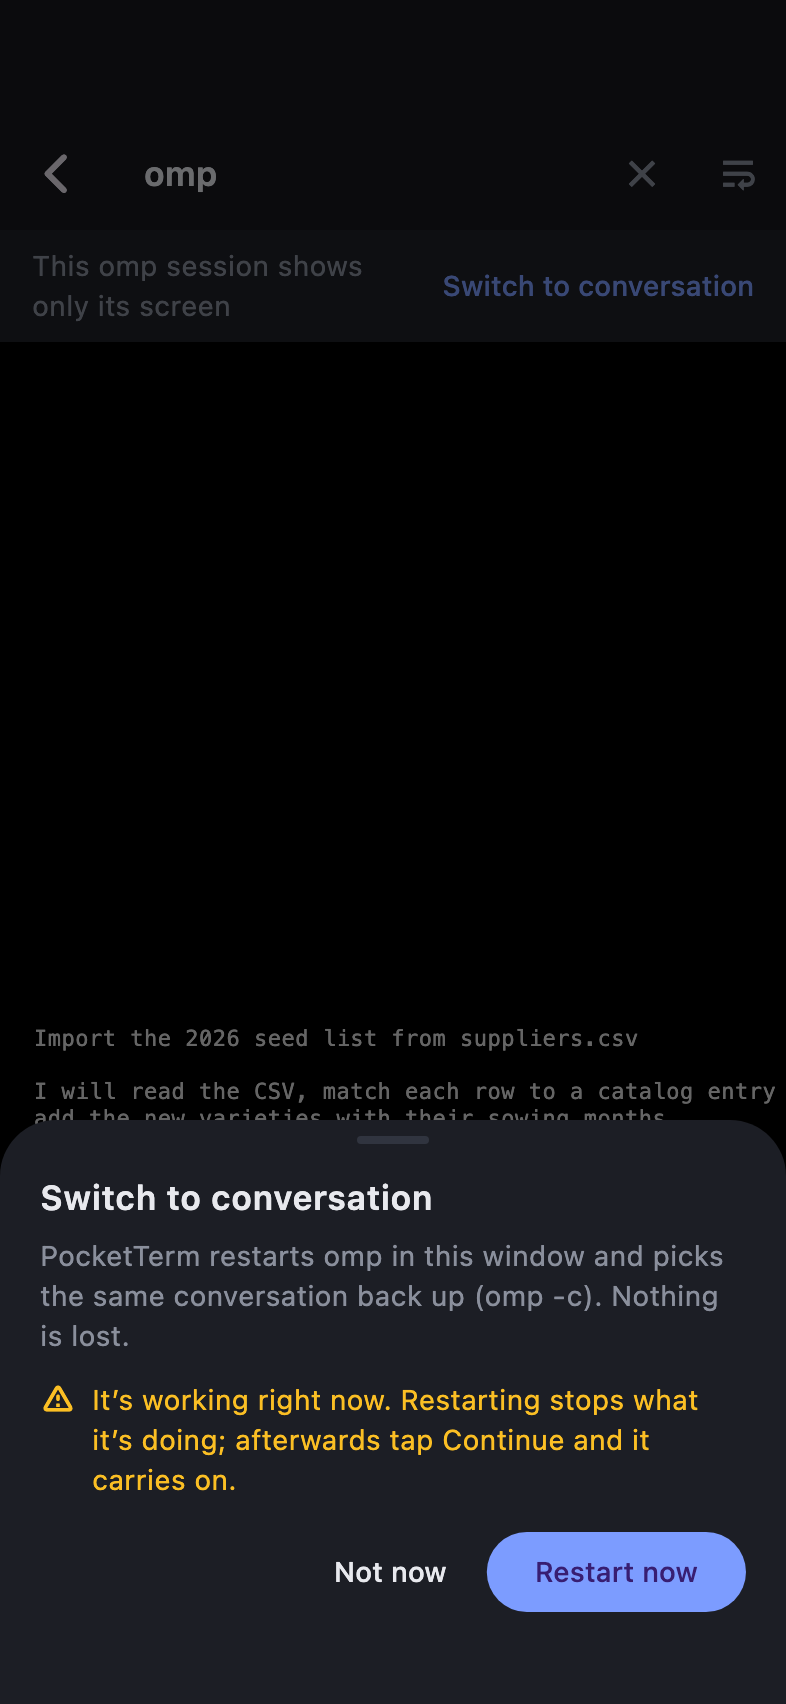
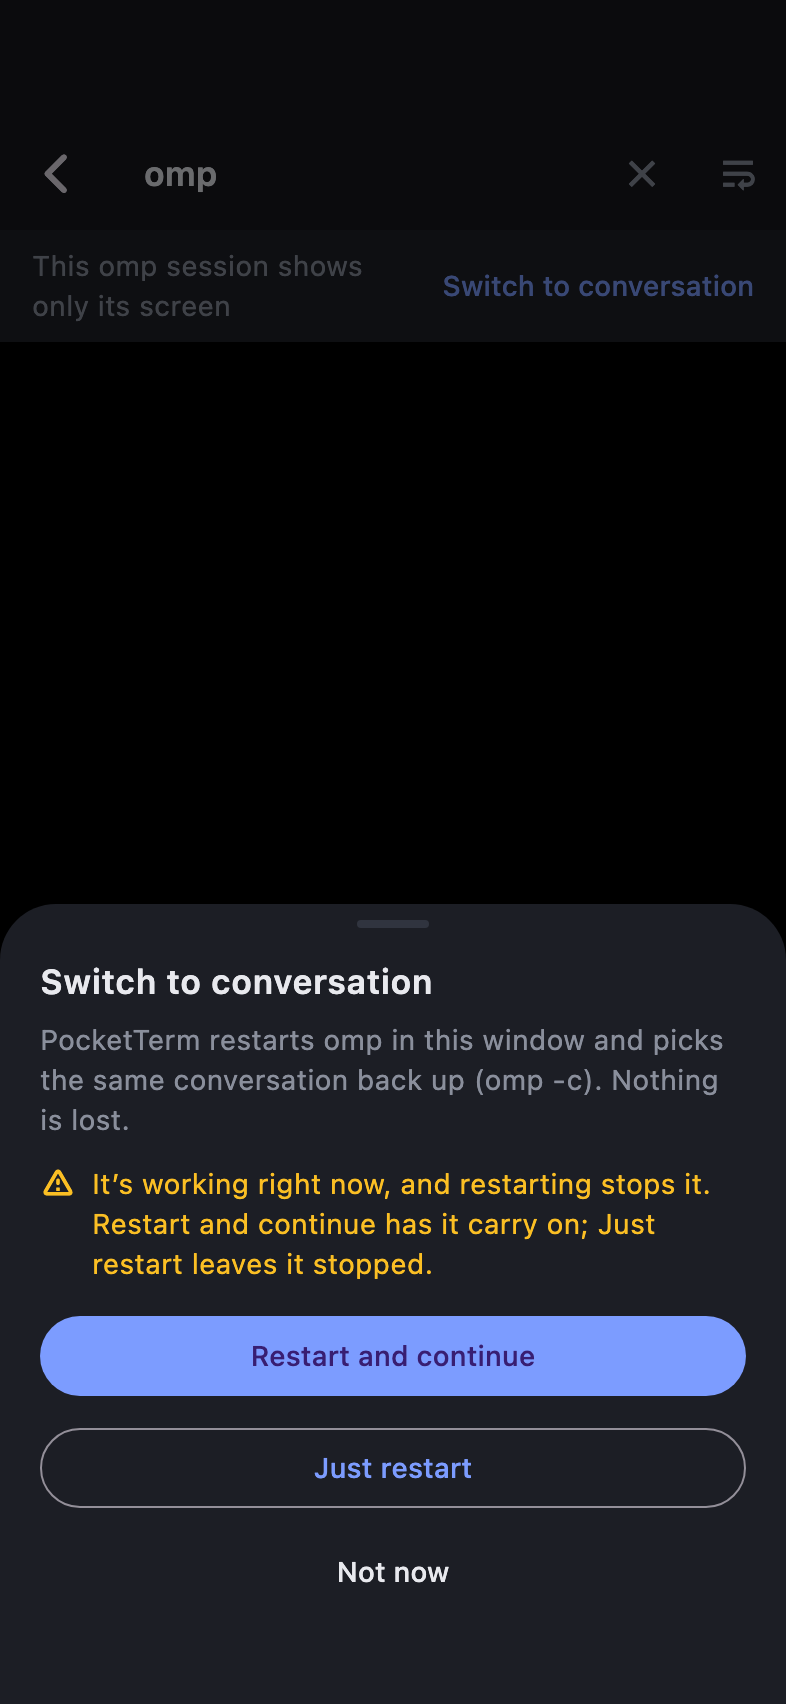
Phone: restart and continue in one tap

Changed region(s): [[0.0, 0.5288, 1.0, 0.9642], [0.4275, 0.902, 0.5802, 0.9331]]

diff --git a/apps/pocketterm-mobile/lib/switch_view.dart b/apps/pocketterm-mobile/lib/switch_view.dart
@@ -28,6 +28,10 @@ const switchWait = Duration(seconds: 25);
 
 enum _Phase { idle, switching, failed }
 
+/// What the session page does once a switched agent reports: an omp that was at work when its restart stopped it
+/// is prompted `continue` right away ([send]), or offers a Continue chip ([offer]).
+enum AfterSwitch { nothing, offer, send }
+
 /// The top of a screen-only agent window's page ([canSwitch]): a banner offering the switch to the conversation
 /// view, then "Switching…" until the agent reports as a live session in this window, whose page then replaces this
 /// one; or, after [switchWait], that it didn't come back.
@@ -47,8 +51,8 @@ class _SwitchBannerState extends State<SwitchBanner> {
   /// The agent being switched: its window's program is a shell for a moment while omp restarts.
   late Agent _agent;
 
-  /// It was at work when the switch stopped it: its session page offers Continue.
-  bool _wasBusy = false;
+  /// What its session page does about a run the switch stopped.
+  AfterSwitch _after = AfterSwitch.nothing;
   Timer? _timeout;
 
   @override
@@ -64,15 +68,17 @@ class _SwitchBannerState extends State<SwitchBanner> {
   }
 
   Future<void> _offer(Agent agent) async {
-    final busy = await showAppSheet<bool>(
+    final after = await showAppSheet<AfterSwitch>(
       context,
+      // Its height is its content's: the choices at work take more than the default share of the screen.
+      isScrollControlled: true,
       builder: (_) => SwitchSheet(remote: remote, window: widget.window, agent: agent),
     );
-    if (busy == null || !mounted) return;
+    if (after == null || !mounted) return;
     setState(() {
       _phase = _Phase.switching;
       _agent = agent;
-      _wasBusy = busy;
+      _after = after;
     });
     _stop();
     remote.addListener(_check);
@@ -98,7 +104,12 @@ class _SwitchBannerState extends State<SwitchBanner> {
     Coach.maybeOf(context)?.switched(widget.window);
     final route = ModalRoute.of(context);
     final page = MaterialPageRoute<void>(
-      builder: (_) => SessionPage(remote: remote, sessionKey: s.key, offerContinue: _wasBusy),
+      builder: (_) => SessionPage(
+        remote: remote,
+        sessionKey: s.key,
+        offerContinue: _after == AfterSwitch.offer,
+        autoContinue: _after == AfterSwitch.send,
+      ),
     );
     final nav = Navigator.of(context);
     if (route == null || route.isCurrent) {
@@ -165,8 +176,8 @@ class _SwitchBannerState extends State<SwitchBanner> {
 }
 
 /// What switching [agent] in [window] does, asked before it's done. omp restarts, so the sheet first asks the
-/// computer whether it's at work and warns that restarting stops it. Pops whether it was at work once confirmed,
-/// null if not.
+/// computer whether it's at work, warns that restarting stops it and offers to have it carry on. Pops what the
+/// session page does about the stopped run once confirmed, null if not.
 class SwitchSheet extends StatefulWidget {
   const SwitchSheet({required this.remote, required this.window, required this.agent, super.key});
   final TerminalRemote remote;
@@ -232,8 +243,8 @@ class _SwitchSheetState extends State<SwitchSheet> {
                     SizedBox(width: 8),
                     Expanded(
                       child: Text(
-                        'It’s working right now. Restarting stops what it’s doing; afterwards tap Continue and it '
-                        'carries on.',
+                        'It’s working right now, and restarting stops it. Restart and continue has it carry on; '
+                        'Just restart leaves it stopped.',
                         style: TextStyle(fontSize: 14, color: C.warn, height: 1.4),
                       ),
                     ),
@@ -247,22 +258,17 @@ class _SwitchSheetState extends State<SwitchSheet> {
                 height: 48,
                 child: Center(child: SizedBox.square(dimension: 18, child: CircularProgressIndicator(strokeWidth: 2))),
               )
+            else if (busy)
+              ..._busyChoices()
             else
               Row(
                 mainAxisAlignment: MainAxisAlignment.end,
                 children: [
-                  TextButton(
-                    key: const ValueKey('switch-cancel'),
-                    onPressed: () => Navigator.of(context).pop(),
-                    child: const Text('Not now', style: TextStyle(color: C.text)),
-                  ),
+                  _notNow(),
                   const SizedBox(width: 8),
                   FilledButton(
                     key: const ValueKey('switch-confirm'),
-                    onPressed: () {
-                      unawaited(HapticFeedback.lightImpact());
-                      Navigator.of(context).pop(busy);
-                    },
+                    onPressed: () => _pick(AfterSwitch.nothing),
                     child: Text(omp ? 'Restart now' : 'Switch'),
                   ),
                 ],
@@ -272,4 +278,32 @@ class _SwitchSheetState extends State<SwitchSheet> {
       ),
     );
   }
+
+  void _pick(AfterSwitch after) {
+    unawaited(HapticFeedback.lightImpact());
+    Navigator.of(context).pop(after);
+  }
+
+  Widget _notNow() => TextButton(
+    key: const ValueKey('switch-cancel'),
+    onPressed: () => Navigator.of(context).pop(),
+    child: const Text('Not now', style: TextStyle(color: C.text)),
+  );
+
+  /// omp at work: restart and have it carry on, or just restart, stacked so both read in full.
+  List<Widget> _busyChoices() => [
+    FilledButton(
+      key: const ValueKey('switch-continue'),
+      onPressed: () => _pick(AfterSwitch.send),
+      child: const Text('Restart and continue'),
+    ),
+    const SizedBox(height: 8),
+    OutlinedButton(
+      key: const ValueKey('switch-confirm'),
+      onPressed: () => _pick(AfterSwitch.offer),
+      child: const Text('Just restart'),
+    ),
+    const SizedBox(height: 4),
+    _notNow(),
+  ];
 }

diff --git a/apps/pocketterm-mobile/test/terminal_list_test.dart b/apps/pocketterm-mobile/test/terminal_list_test.dart
@@ -694,37 +694,44 @@ void main() {
       remote.flush();
     });
 
-    testWidgets('omp: the sheet asks whether it works, warns that it does, then it switches and its session opens', (
-      tester,
-    ) async {
+    /// The omp in [window] is at work: the sheet asks, warns and offers both restarts.
+    Future<void> busySheet(WidgetTester tester, String window) async {
       screensOnly();
-      await openScreen(tester, 'kitty-1/7');
+      await openScreen(tester, window);
       await openSheet(tester);
       expect(find.textContaining('picks the same conversation back up'), findsOneWidget);
       // Asking the computer first: no buttons yet.
       expect(find.byKey(const ValueKey('switch-probing')), findsOneWidget);
-      expect(find.text('Restart now'), findsNothing);
+      expect(find.text('Restart and continue'), findsNothing);
       final probe = runs('probe').single;
-      expect(probe, containsPair('window', 'kitty-1/7'));
+      expect(probe, containsPair('window', window));
       remote.handle('ran', {'id': probe['id'], 'busy': true});
       await tester.pump();
       expect(find.byKey(const ValueKey('switch-busy')), findsOneWidget);
-      expect(find.textContaining('afterwards tap Continue'), findsOneWidget);
+      expect(find.text('Restart and continue'), findsOneWidget);
+      expect(find.text('Just restart'), findsOneWidget);
+      expect(find.text('Not now'), findsOneWidget);
+      expect(find.text('Restart now'), findsNothing);
+    }
 
-      await tester.tap(find.text('Restart now'));
+    /// Taps [choice] in the sheet; the switch goes and omp reports from [window] (at work if [busy]), whose session
+    /// page opens.
+    Future<void> restart(WidgetTester tester, String window, String choice, {bool busy = false}) async {
+      await tester.tap(find.text(choice));
       await tester.pump();
       await tester.pump(const Duration(milliseconds: 400));
       final switched = runs('switch').single;
-      expect(switched, allOf(containsPair('window', 'kitty-1/7'), containsPair('agent', 'omp')));
+      expect(switched, allOf(containsPair('window', window), containsPair('agent', 'omp')));
       expect(find.text('Switching…'), findsOneWidget);
       remote.handle('ran', {'id': switched['id']});
       await tester.pump();
       expect(find.text('Switching…'), findsOneWidget, reason: 'until omp reports');
+      expect(runs('prompt'), isEmpty);
 
       // omp reports from the window: its session's page takes the screen's place.
       screensOnly(
         sessions: [
-          {'key': 'kitty-1/7', 'id': 's7', 'agent': 'omp', 'window': 'kitty-1/7', 'title': 'Back', 'cwd': _a},
+          {'key': window, 'id': 's7', 'agent': 'omp', 'window': window, 'title': 'Back', 'cwd': _a, 'busy': busy},
         ],
       );
       await tester.pump();
@@ -732,8 +739,13 @@ void main() {
       await tester.pump(const Duration(milliseconds: 400));
       expect(find.byType(TerminalPage), findsNothing);
       expect(find.byType(SessionPage), findsOneWidget);
+    }
 
-      // It was at work: Continue carries on, once.
+    testWidgets('omp at work, Just restart: its session opens with Continue, which carries on once', (tester) async {
+      await busySheet(tester, 'kitty-1/7');
+      await restart(tester, 'kitty-1/7', 'Just restart');
+      expect(runs('prompt'), isEmpty, reason: 'nothing goes on its own');
+
       await tester.tap(find.byKey(const ValueKey('continue')));
       await tester.pump();
       await tester.pump(Duration.zero);
@@ -750,6 +762,52 @@ void main() {
       await tester.pump(const Duration(milliseconds: 400));
       expect(find.byType(TerminalList), findsOneWidget);
       expect(find.byType(TerminalPage), findsNothing);
+      remote.flush();
+    });
+
+    testWidgets('omp at work, Restart and continue: continue goes once its session reports at rest, no chip', (
+      tester,
+    ) async {
+      await busySheet(tester, 'kitty-1/7');
+      // It reports at work first: continue waits rather than going in the middle of it, or not at all.
+      await restart(tester, 'kitty-1/7', 'Restart and continue', busy: true);
+      expect(runs('prompt'), isEmpty);
+      screensOnly(
+        sessions: [
+          {'key': 'kitty-1/7', 'id': 's7', 'agent': 'omp', 'window': 'kitty-1/7', 'title': 'Back', 'cwd': _a},
+        ],
+      );
+      await tester.pump();
+      await tester.pump(const Duration(milliseconds: 400));
+      final prompt = runs('prompt').single;
+      expect(prompt, allOf(containsPair('session', 'kitty-1/7'), containsPair('text', 'continue')));
+      expect(find.byKey(const ValueKey('continue')), findsNothing);
+      remote.handle('ran', {'id': prompt['id']});
+      await tester.pump();
+      await tester.pump(const Duration(milliseconds: 400));
+
+      // More reports and rebuilds send nothing more.
+      screensOnly(
+        sessions: [
+          {'key': 'kitty-1/7', 'id': 's7', 'agent': 'omp', 'window': 'kitty-1/7', 'title': 'Again', 'cwd': _a},
+        ],
+      );
+      await tester.pump();
+      await tester.pump(const Duration(milliseconds: 400));
+      expect(runs('prompt'), hasLength(1));
+      expect(find.byKey(const ValueKey('continue')), findsNothing);
+      remote.flush();
+    });
+
+    testWidgets('omp at work, Restart and continue: when continue fails, the chip offers it', (tester) async {
+      await busySheet(tester, 'kitty-1/7');
+      await restart(tester, 'kitty-1/7', 'Restart and continue');
+      final prompt = runs('prompt').single;
+      remote.handle('ran', {'id': prompt['id'], 'error': 'It isn’t taking prompts.'});
+      await tester.pump();
+      await tester.pump(const Duration(milliseconds: 400));
+      expect(find.byKey(const ValueKey('continue')), findsOneWidget);
+      expect(runs('prompt'), hasLength(1), reason: 'not again on its own');
       remote.flush();
     });
 

diff --git a/apps/pocketterm-mobile/lib/session_view.dart b/apps/pocketterm-mobile/lib/session_view.dart
@@ -29,6 +29,7 @@ class SessionPage extends StatefulWidget {
     required this.sessionKey,
     this.starting = false,
     this.offerContinue = false,
+    this.autoContinue = false,
     super.key,
   });
   final TerminalRemote remote;
@@ -40,6 +41,10 @@ class SessionPage extends StatefulWidget {
   /// It was just restarted from the phone in the middle of a run: a Continue chip above the composer prompts it
   /// to carry on, once.
   final bool offerContinue;
+
+  /// Like [offerContinue], but `continue` is sent as soon as the session can take a prompt, once; the chip shows
+  /// only if that fails.
+  final bool autoContinue;
 
   @override
   State<SessionPage> createState() => _SessionPageState();
@@ -67,6 +72,9 @@ class _SessionPageState extends State<SessionPage> {
 
   /// [SessionPage.offerContinue] until Continue went.
   late bool _continue = widget.offerContinue;
+
+  /// [SessionPage.autoContinue] until `continue` went out.
+  late bool _autoContinue = widget.autoContinue;
   bool _loadingOlder = false;
 
   /// The close button was tapped: the page asks above the composer.
@@ -98,11 +106,16 @@ class _SessionPageState extends State<SessionPage> {
       _atBottom = p.pixels >= p.maxScrollExtent - 24;
     });
     _unwatch = remote.watchSession(key);
+    if (_autoContinue) {
+      remote.addListener(_continueWhenReady);
+      WidgetsBinding.instance.addPostFrameCallback((_) => _continueWhenReady());
+    }
   }
 
   @override
   void dispose() {
     _unwatch();
+    remote.removeListener(_continueWhenReady);
     _scroll.dispose();
     _field.dispose();
     _attachments.dispose();
@@ -181,6 +194,16 @@ class _SessionPageState extends State<SessionPage> {
       setState(() => _continue = true);
       termToast(context, e, above: _composerKey);
     }
+  }
+
+  /// [SessionPage.autoContinue]: prompts `continue` once the session is there, at rest, and the phone is online.
+  void _continueWhenReady() {
+    if (!_autoContinue || !mounted) return;
+    final s = remote.session(key);
+    if (!remote.online || s == null || s.busy || _sending) return;
+    _autoContinue = false;
+    remote.removeListener(_continueWhenReady);
+    unawaited(_sendContinue());
   }
 
   /// Why [agent]'s slash commands can't be sent from here.

diff --git a/CHANGELOG.md b/CHANGELOG.md
@@ -25,7 +25,7 @@ The first release: your computer's omp and Claude Code sessions on your phone, t
 - **Terminal list.** Your computer's omp and Claude Code sessions by project, then its other terminal windows. Projects are sorted by name or by recent activity (re-ranked when you pull to refresh), and sessions keep their order within a project. Tap a project's heading to fold it to one line that still says what needs you; long-press it for a new session there, **Fold all others** or **Unfold all**. With several computers, the title picks which one to show. With none on the account, the screen says why.
 - **Sessions as conversations.** Streamed Markdown answers, tool-call cards, prompts with images, steer, queue and stop, questions, approvals, plan reviews and `/` slash commands.
 - **Screens.** Other terminal windows are live screens you can type and press keys in.
-- **Screen only to conversation.** An omp or Claude Code window that doesn't report as a conversation is badged **Screen only**, with the reason the computer found: PocketTerm isn't installed in that agent, it's out of date, Claude Code has mods turned off, or the session was opened before PocketTerm was installed. Where it can, its screen page offers **Switch to conversation**: in omp, PocketTerm quits omp in that window and runs `omp -c`, so the same conversation comes back (if omp was working, the session page offers **Continue** afterwards); in Claude Code it types `/reload-plugins` and nothing restarts.
+- **Screen only to conversation.** An omp or Claude Code window that doesn't report as a conversation is badged **Screen only**, with the reason the computer found: PocketTerm isn't installed in that agent, it's out of date, Claude Code has mods turned off, or the session was opened before PocketTerm was installed. Where it can, its screen page offers **Switch to conversation**: in omp, PocketTerm quits omp in that window and runs `omp -c`, so the same conversation comes back; if omp was working, **Restart and continue** prompts `continue` as soon as it's back, and **Just restart** leaves it stopped with a **Continue** button on its session page. In Claude Code it types `/reload-plugins` and nothing restarts.
 - **Ending a session.** Swipe a row left to reveal **End session** (**Close window** for a plain window); the close button on a session or screen asks in place.
 - **New session.** Start your agent or a shell in one of your projects without taking the computer's focus; **New project…** makes the folder first.
 - **First-use tips.** The first time a control is on screen, it's spotlit with a short tip: the switch from a screen-only session to a conversation first, then folding projects, swiping a row, the +, and on a conversation `/` commands, Queue, following and Screen. Tap the control or **Got it**; each shows once on this phone. **Show tips again** in the account sheet brings them back.

diff --git a/docs/ARCHITECTURE.md b/docs/ARCHITECTURE.md
@@ -99,7 +99,7 @@ Each terminal is a `TerminalHost` (`core/lib/terminal.dart`): list its windows (
 | `probe {window}` | Reads the screen, waits 2 s, reads it again | `ran {busy}`: the text changed (the agent is at work) |
 | `switch {window, agent}` | omp: Esc (stops a run), Ctrl+C (empties its editor; Ctrl+U clears one line only), Ctrl+D (quits on an empty editor), waits until the tty's foreground program isn't omp (up to 8 s; 2 s where the terminal tells no tty), then types `omp -c` and Enter. Claude Code: types `/reload-plugins` and Enter | `ran {}`, or `ran {error}` |
 
-The phone shows "Switching…" until a session reports from that window, then its session page replaces the screen (with **Continue**, which prompts `continue`, when the probe said busy); after 25 s it says the window didn't come back as a conversation.
+The phone shows "Switching…" until a session reports from that window, then its session page replaces the screen; after 25 s it says the window didn't come back as a conversation. When the probe said busy, the sheet offers **Restart and continue**, whose session page prompts `continue` once the session is online and at rest (showing **Continue** instead if that fails), and **Just restart**, whose session page shows **Continue**.
 
 ## Local API
 

diff --git a/README.md b/README.md
@@ -31,7 +31,7 @@ PocketTerm is a desktop app (macOS menu bar, Windows tray) and a phone app (iPho
 - **Screens.** Every other terminal window is a live screen you can type and press keys in.
 - **Approvals and questions.** Answer the agent's questions, approve tool calls and review plans with a tap.
 - **Pushes.** A notification when a run finishes or the agent needs you. A Live Activity on iPhone and an ongoing notification on Android for the sessions you follow.
-- **Switch to conversation.** A session opened before PocketTerm was installed shows only its screen; **Switch to conversation** restarts omp on the same conversation (`omp -c`) or reloads Claude Code's plugins (nothing restarts).
+- **Switch to conversation.** A session opened before PocketTerm was installed shows only its screen; **Switch to conversation** restarts omp on the same conversation (`omp -c`), and picks up what it was doing if you ask, or reloads Claude Code's plugins (nothing restarts).
 - **New sessions.** Start your agent or a shell in any project without taking the computer's focus.
 - **Tips on first use.** Each control gets a one-time spotlight and a line on what it does.
 - **Several computers.** One account, several Macs and Windows PCs; pick one on the phone.
